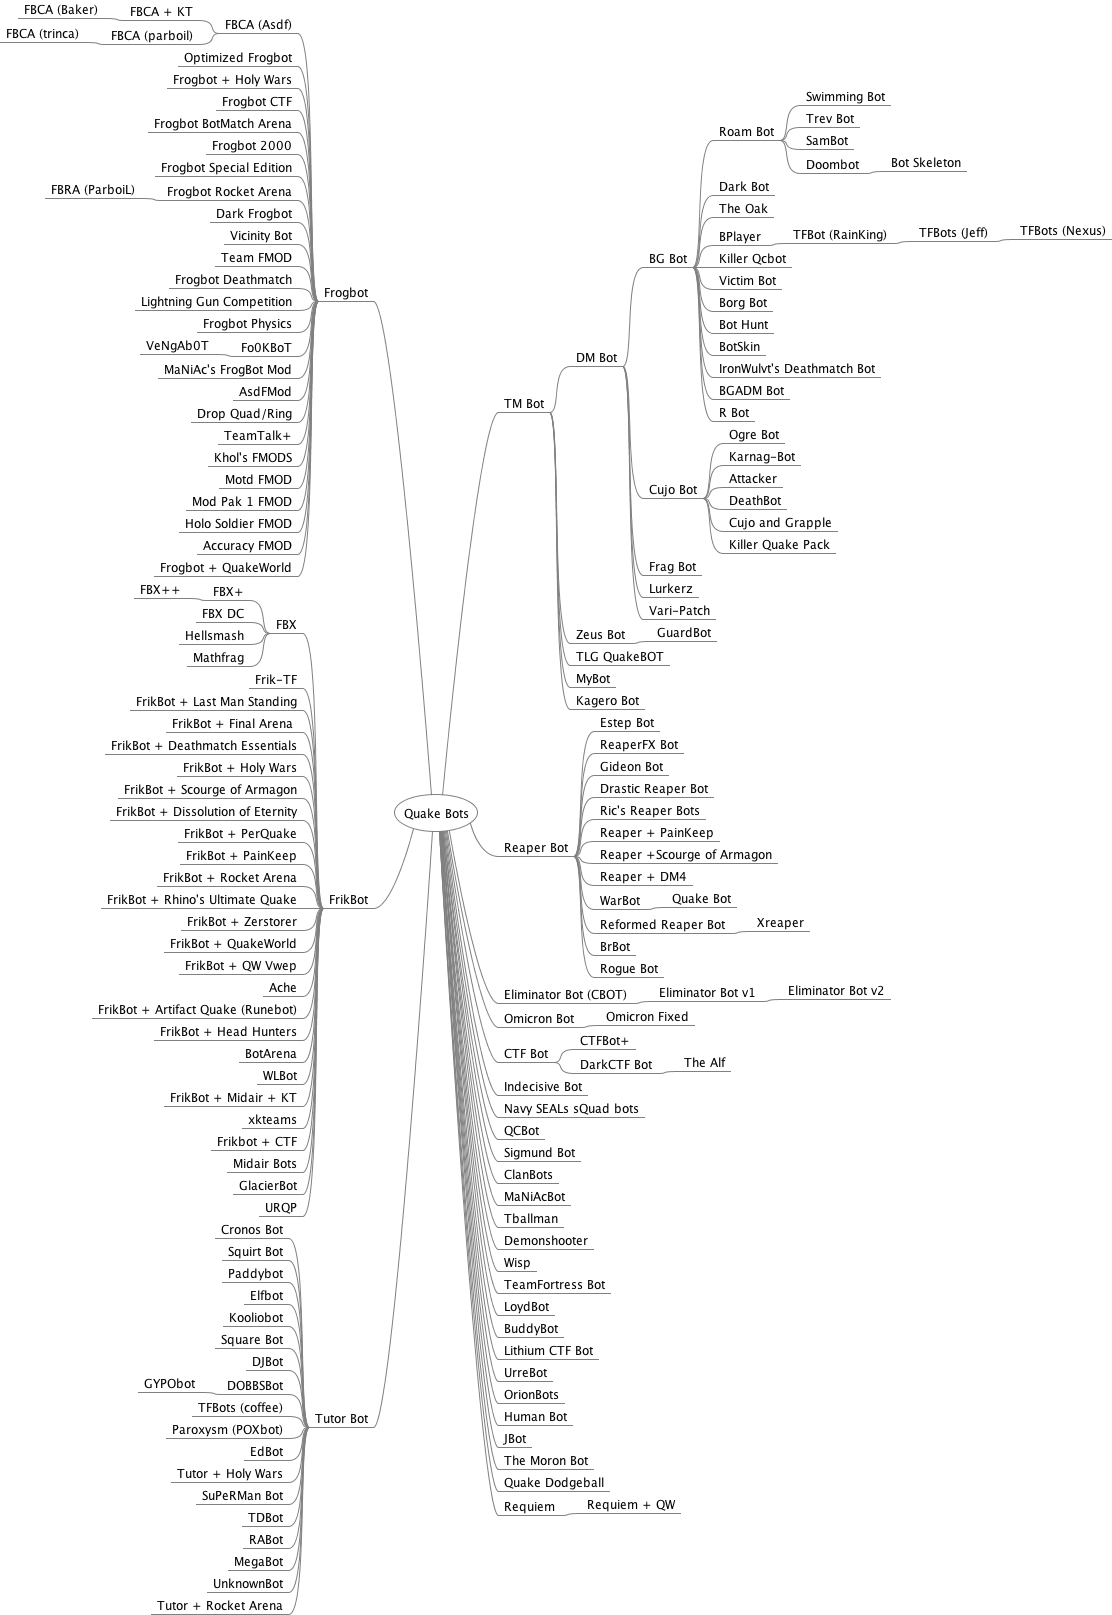
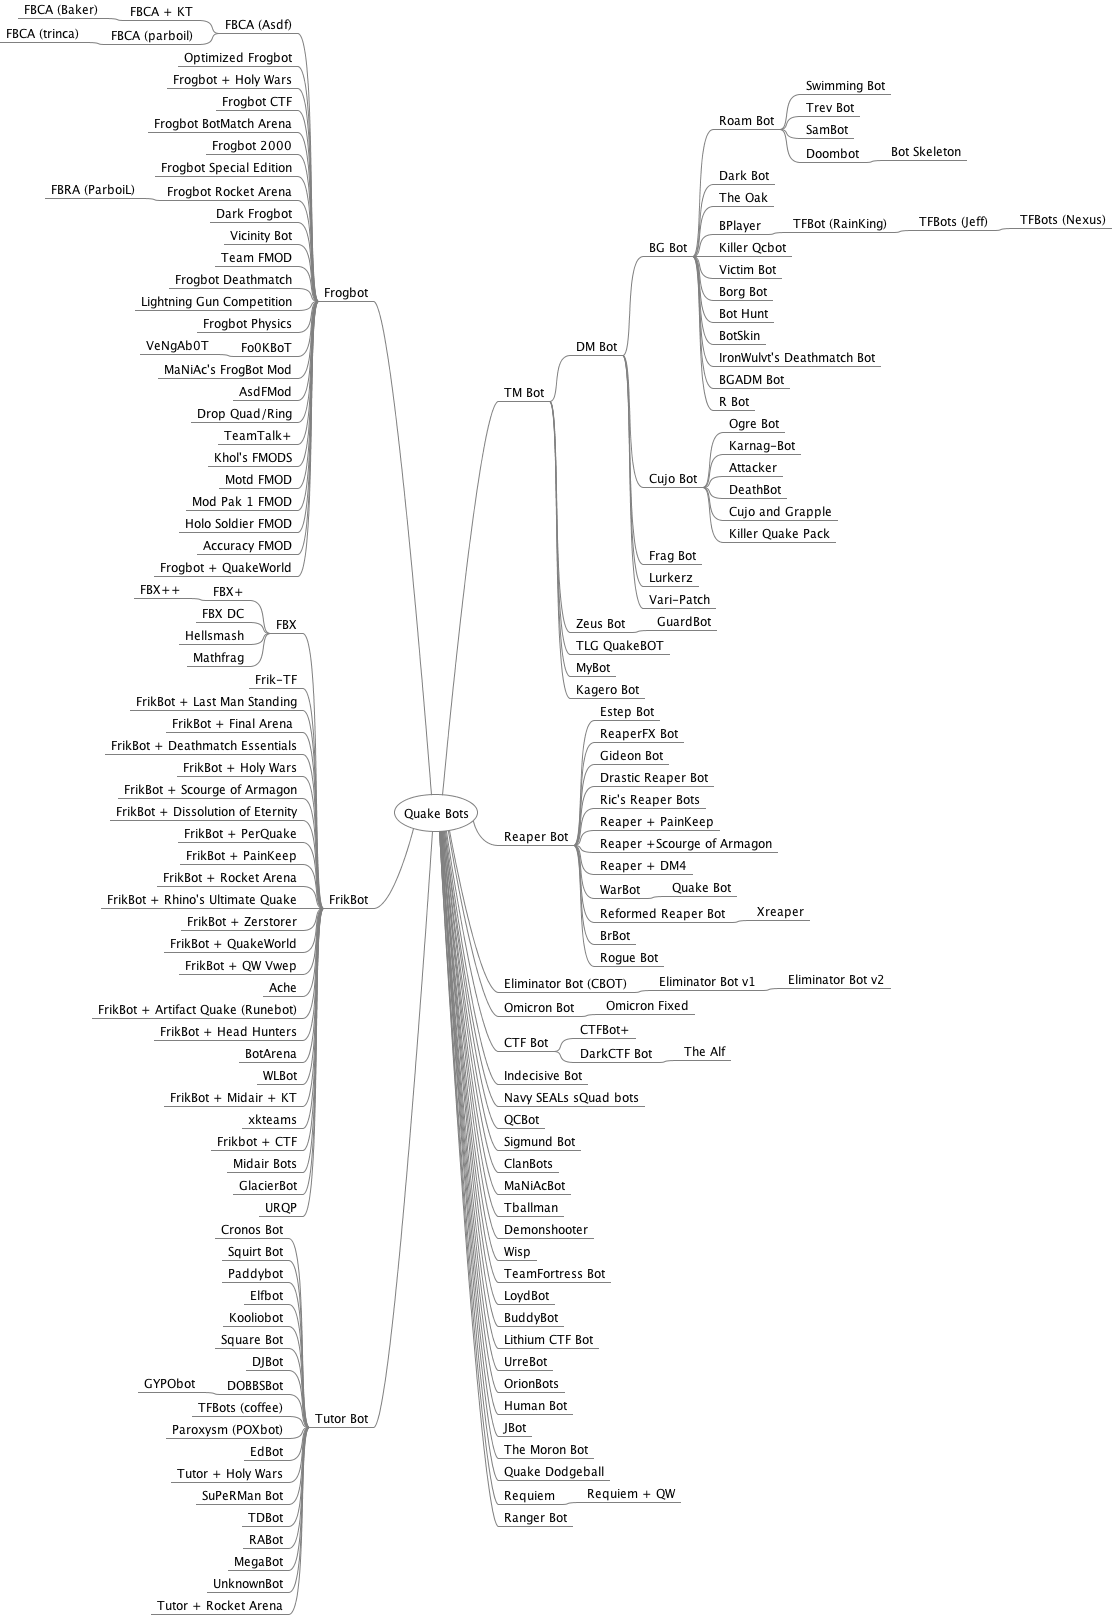
Added Ranger Bot

diff --git a/research/mindmap/QuakeBots.mm b/research/mindmap/QuakeBots.mm
@@ -1,6 +1,6 @@
 <map version="1.0.1">
 <!-- To view this file, download free mind mapping software FreeMind from http://freemind.sourceforge.net -->
-<node CREATED="1622514182273" ID="ID_507786403" MODIFIED="1628367313760" TEXT="Quake Bots">
+<node CREATED="1622514182273" ID="ID_507786403" MODIFIED="1629673070228" TEXT="Quake Bots">
 <node CREATED="1622514200034" ID="ID_1362333058" MODIFIED="1628548110793" POSITION="right" TEXT="TM Bot">
 <node CREATED="1622514242481" ID="ID_1334863165" MODIFIED="1622585805922" TEXT="DM Bot">
 <node CREATED="1622514306066" ID="ID_477049570" MODIFIED="1622929015522" TEXT="BG Bot">
@@ -198,5 +198,6 @@
 <node CREATED="1628367314439" ID="ID_807420930" MODIFIED="1628367334363" POSITION="right" TEXT="Requiem">
 <node CREATED="1628367334772" ID="ID_1860350013" MODIFIED="1628367337356" TEXT="Requiem + QW"/>
 </node>
+<node CREATED="1629673070623" ID="ID_1776559166" MODIFIED="1629673075081" POSITION="right" TEXT="Ranger Bot"/>
 </node>
 </map>

diff --git a/README.md b/README.md
@@ -154,6 +154,7 @@ Quake Bot (QBot) | Muhammad Hidayat Bin Sman aka "Grinder" | [qbot11.zip](bin/qb
 Quake Dodgeball | Brendan aka "Trickle" and "Orion" | [quake_dodgeball_v1.2.6.zip](bin/quake_dodgeball_v1.2.6.zip)<br>[db_src_2016.zip](bin/db_src_2016.zip)<br>[quake_dodgeball_1.1.zip](bin/quake_dodgeball_1.1.zip)
 R Bot | Ross Johnson aka "ColdKill" | [rbot70.zip](bin/rbot70.zip) ([txt](bin/rbot70.txt))<br>[rbot20.zip](bin/rbot20.zip) ([txt](bin/rbot20.txt))<br>rbot.zip
 RABot | Rodrigo Marx aka "Shooter" | [mwrrabot222cl.zip](bin/mwrrabot222cl.zip)<br>[rabot.zip](bin/rabot.zip)
+Ranger Bot | John Dean aka "Maleficus" | setup.exe ([txt](bin/ranger_demo.txt))
 Reaper + DM4 | Daniel Hein aka "Hades" | [dm4reaper.zip](bin/dm4reaper.zip) ([txt](bin/dm4reaper.txt))
 Reaper + Painkeep | Bent Svendsen aka "Decker" | [pkbot.zip](bin/pkbot.zip) ([txt](bin/pkbot.txt))
 Reaper + Scourge of Armagon | Bent Svendsen aka "Decker" | [hipreap3.zip](bin/hipreap3.zip) ([txt](bin/hipreap3.txt))
